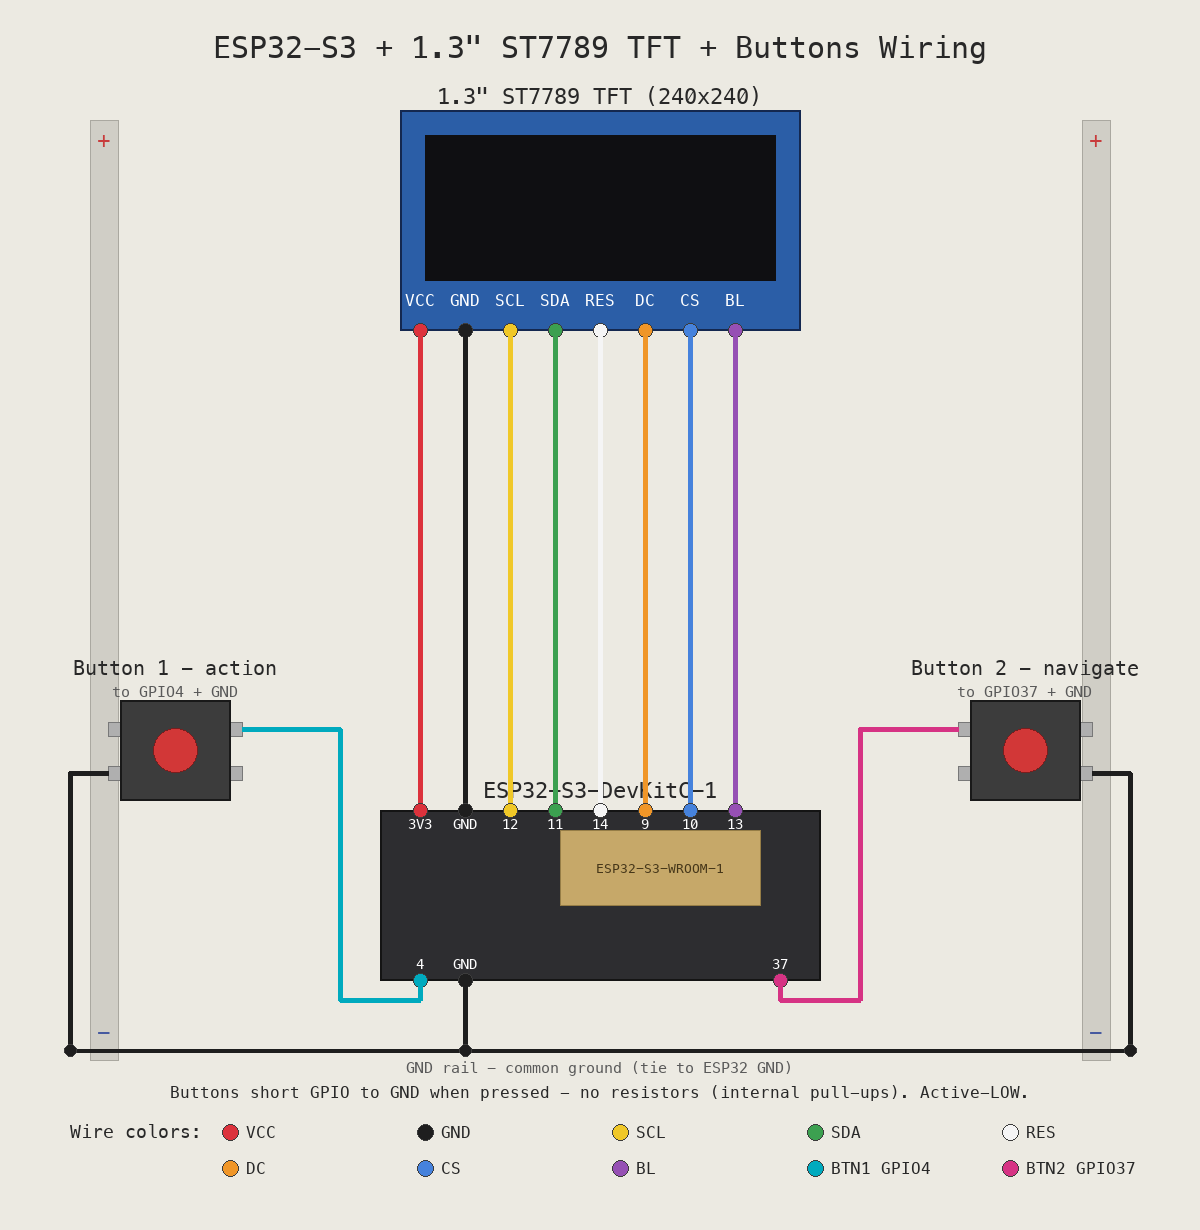
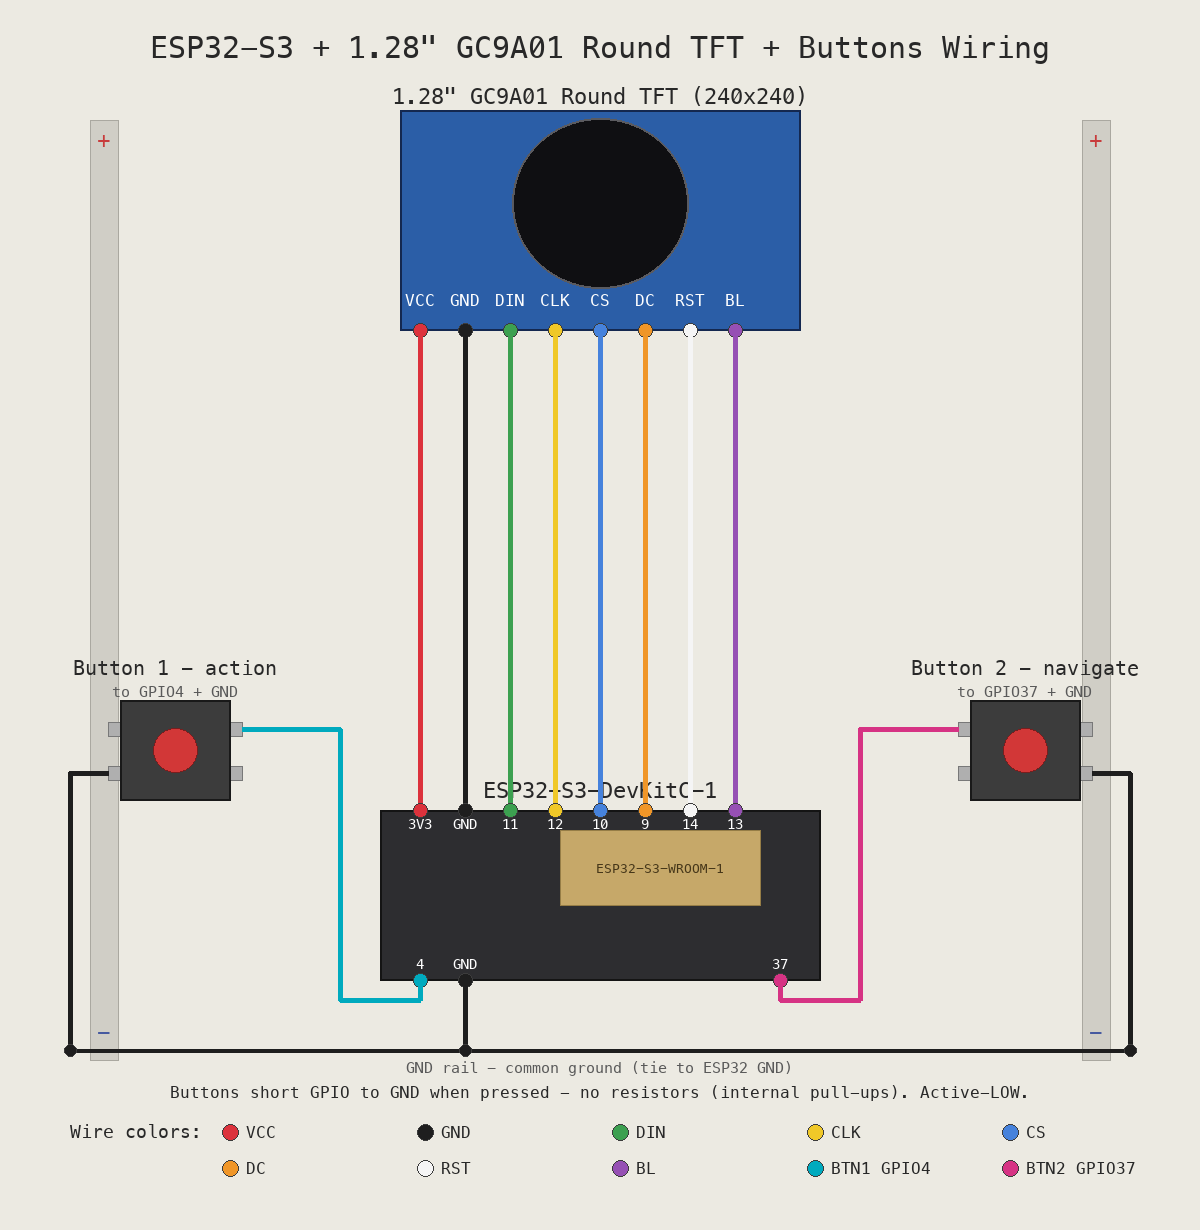
docs(wiring): redraw diagram for the round GC9A01 module
Module drawn with its round panel, pin header relabeled to the Waveshare
silkscreen order (VCC/GND/DIN/CLK/CS/DC/RST/BL) and the legend updated;
wire colors keep their per-GPIO meaning (DIN=11, CLK=12, CS=10, DC=9,
RST=14, BL=13).

diff --git a/tools/render_wiring_diagram.py b/tools/render_wiring_diagram.py
@@ -1,5 +1,5 @@
 #!/usr/bin/env python3
-"""Render wiring_diagram.png: ESP32-S3 + 1.3" ST7789 TFT + 2 buttons.
+"""Render wiring_diagram.png: ESP32-S3 + 1.28" GC9A01 round TFT + 2 buttons.
 
 Pins match src/main.cpp (BUTTON_1_PIN=4, BUTTON_2_PIN=37) and the TFT
 build flags in platformio.ini. Buttons wire GPIO -> GND (internal pull-ups).
@@ -47,7 +47,7 @@ def dot(x, y, color, r=6):
 
 
 # --- title ---
-text(W // 2, 48, 'ESP32-S3 + 1.3" ST7789 TFT + Buttons Wiring', 30)
+text(W // 2, 48, 'ESP32-S3 + 1.28" GC9A01 Round TFT + Buttons Wiring', 30)
 
 # --- breadboard rails (decorative) ---
 for cx in (104, 1096):
@@ -55,20 +55,20 @@ for cx in (104, 1096):
     text(cx, 140, "+", 22, fill=(200, 60, 60))
     text(cx, 1032, "-", 22, fill=(70, 90, 160))
 
-# --- display module ---
+# --- display module (square carrier PCB, round panel) ---
 d.rectangle((400, 110, 800, 330), fill=(43, 94, 167), outline=(20, 40, 80), width=2)
-d.rectangle((425, 135, 775, 280), fill=(15, 15, 18))
-text(600, 96, '1.3" ST7789 TFT (240x240)', 22)
+d.ellipse((512, 118, 688, 288), fill=(15, 15, 18), outline=(90, 90, 95), width=2)
+text(600, 96, '1.28" GC9A01 Round TFT (240x240)', 22)
 
-# pin header along the bottom edge of the module
+# pin header along the bottom edge of the module (Waveshare silkscreen order)
 PINS = [  # (x, label, color)
     (420, "VCC", RED),
     (465, "GND", BLACK),
-    (510, "SCL", YELLOW),
-    (555, "SDA", GREEN),
-    (600, "RES", WHITE),
+    (510, "DIN", GREEN),
+    (555, "CLK", YELLOW),
+    (600, "CS", BLUE),
     (645, "DC", ORANGE),
-    (690, "CS", BLUE),
+    (690, "RST", WHITE),
     (735, "BL", PURPLE),
 ]
 for x, label, color in PINS:
@@ -85,11 +85,11 @@ text(660, 868, "ESP32-S3-WROOM-1", 13, fill=(70, 55, 25))
 TOP = [
     (420, "3V3", RED),
     (465, "GND", BLACK),
-    (510, "12", YELLOW),
-    (555, "11", GREEN),
-    (600, "14", WHITE),
+    (510, "11", GREEN),
+    (555, "12", YELLOW),
+    (600, "10", BLUE),
     (645, "9", ORANGE),
-    (690, "10", BLUE),
+    (690, "14", WHITE),
     (735, "13", PURPLE),
 ]
 for x, label, color in TOP:
@@ -142,8 +142,8 @@ dot(465, RAIL_Y, BLACK)
 text(W // 2, 1092, "Buttons short GPIO to GND when pressed - no resistors (internal pull-ups). Active-LOW.", 16)
 
 LEGEND = [
-    ("VCC", RED), ("GND", BLACK), ("SCL", YELLOW), ("SDA", GREEN), ("RES", WHITE),
-    ("DC", ORANGE), ("CS", BLUE), ("BL", PURPLE), ("BTN1 GPIO4", TEAL), ("BTN2 GPIO37", MAGENTA),
+    ("VCC", RED), ("GND", BLACK), ("DIN", GREEN), ("CLK", YELLOW), ("CS", BLUE),
+    ("DC", ORANGE), ("RST", WHITE), ("BL", PURPLE), ("BTN1 GPIO4", TEAL), ("BTN2 GPIO37", MAGENTA),
 ]
 text(70, 1132, "Wire colors:", 18, anchor="lm")
 for i, (label, color) in enumerate(LEGEND):
